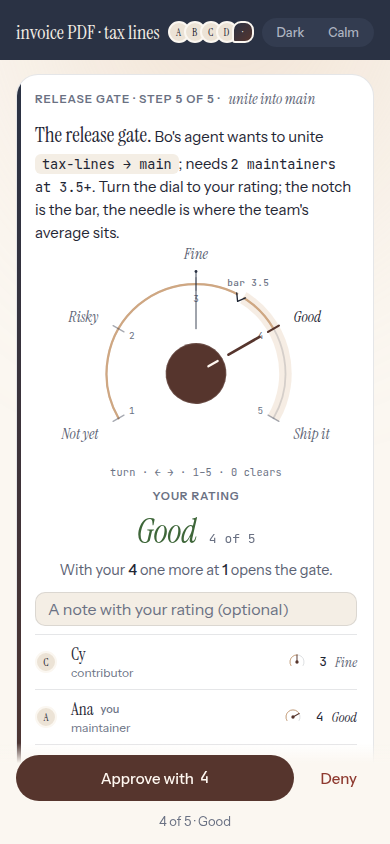
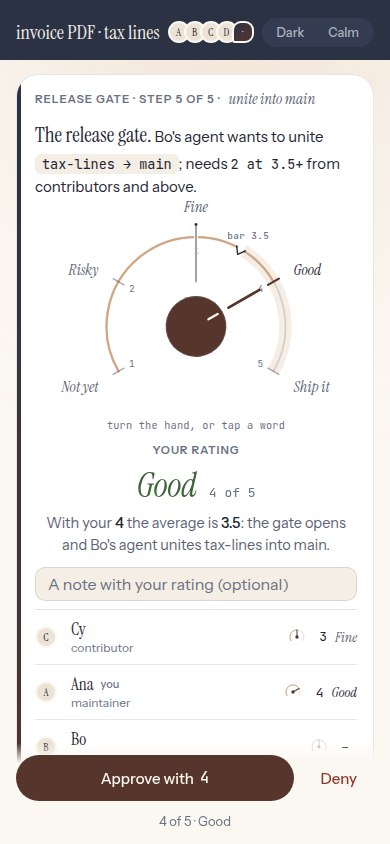
design: Henosis explorations, signature batch 13
The approval dial, revised.

Claude-Session: https://claude.ai/code/session_01YPALfxci6V6KSAnMNM9o8c

Changed region(s): [[0.0923, 0.1848, 0.9231, 0.8934], [0.1538, 0.4929, 0.2462, 0.5237], [0.3692, 0.4929, 0.4, 0.5237]]

diff --git a/design/henosis/explorations/sig-approval-dial/index.html b/design/henosis/explorations/sig-approval-dial/index.html
@@ -135,7 +135,7 @@ kbd { font: 500 11px/16px var(--mono); padding: 1px 6px; border-radius: 6px; bor
 .agent .doing { font-size: 13px; color: var(--rail-muted); line-height: 1.4; }
 .agent .doing i { font-family: var(--serif); font-style: italic; color: var(--apricot); }
 .agent .foot { display: flex; align-items: center; gap: 8px; font-size: 12px; color: var(--rail-muted); }
-.pill { display: inline-flex; align-items: center; gap: 5px; height: 22px; padding: 0 9px; border-radius: var(--radius-full); font-size: 11.5px; font-weight: 600; letter-spacing: .02em; background: var(--surface-3); color: var(--ink-2); }
+.pill { display: inline-flex; align-items: center; gap: 5px; height: 22px; padding: 0 9px; border-radius: var(--radius-full); font: 600 11.5px/1 var(--font); letter-spacing: .02em; background: var(--surface-3); color: var(--ink-2); }
 .pill.team { background: var(--pill-team-bg); color: var(--pill-team-fg); }
 .pill.solo { background: transparent; border: 1px solid var(--rail-line); color: var(--rail-muted); }
 .pill.gate { background: var(--blues); color: var(--apricot); }
@@ -158,7 +158,7 @@ kbd { font: 500 11px/16px var(--mono); padding: 1px 6px; border-radius: 6px; bor
 .seg button { border: 0; background: transparent; font: 500 12.5px var(--font); color: var(--ink-2); padding: 4px 12px; border-radius: var(--radius-full); cursor: pointer; transition: background var(--t) var(--ease-move), color var(--t) var(--ease-move); }
 .seg .on { background: var(--surface); color: var(--ink); box-shadow: var(--shadow-soft); }
 .scroll { flex: 1; overflow: auto; }
-.column { width: min(var(--col), 100%); margin: 0 auto; padding: 18px 24px 40px; display: flex; flex-direction: column; gap: 26px; }
+.column { width: min(var(--col), 100%); margin: 0 auto; padding: 18px 24px 28px; display: flex; flex-direction: column; gap: 26px; }
 .divider { display: flex; align-items: center; gap: 12px; color: var(--ink-3); font-size: 12px; }
 .divider::before, .divider::after { content: ""; flex: 1; height: 1px; background: var(--line); }
 
@@ -185,24 +185,26 @@ kbd { font: 500 11px/16px var(--mono); padding: 1px 6px; border-radius: 6px; bor
 .notice .ask .rule { font-family: var(--mono); font-size: 13.5px; }
 
 /* the dial and its sentence side by side; the ballots run under both */
-.gate { display: grid; grid-template-columns: 372px minmax(0, 1fr); gap: 10px 26px; align-items: start; margin-top: 2px; }
-.gate .say { padding-top: 26px; display: flex; flex-direction: column; gap: 14px; min-width: 0; }
-.gate .say .you { font: 600 11.5px/16px var(--font); letter-spacing: .08em; text-transform: uppercase; color: var(--ink-3); }
-.gate .say .word { font-family: var(--serif); font-style: italic; font-size: 38px; line-height: 1.05; letter-spacing: -.01em; color: var(--ink); display: flex; align-items: baseline; gap: 12px; flex-wrap: wrap; }
-.gate .say .word .n { font: 400 13px/16px var(--mono); color: var(--ink-3); font-style: normal; letter-spacing: 0; }
-.gate .say .word.low { color: var(--danger-ink); } .gate .say .word.risky { color: var(--warn-ink); } .gate .say .word.high { color: var(--ok-ink); }
-.gate .say .word.rest { color: var(--ink-3); }
-.gate .say .means { font-size: 14.5px; line-height: 1.5; color: var(--ink-2); max-width: 38ch; }
-.gate .say .means b { font-weight: 500; color: var(--ink); }
-.gate .say .nudge { display: none; font-size: 13.5px; color: var(--warn-ink); }
-.gate .say.lowpick .nudge { display: block; }
-.gate .say .note { width: 100%; max-width: 340px; min-height: 34px; padding: 6px 12px; border-radius: 10px; border: 1px solid var(--line); background: var(--surface-2); color: var(--ink); font: 400 13.5px var(--font); }
-.gate .say .note::placeholder { color: var(--ink-3); }
+.gatebody { display: grid; grid-template-columns: 340px minmax(0, 1fr); gap: 10px 26px; align-items: start; margin-top: 2px; }
+.gatebody .say { padding-top: 26px; display: flex; flex-direction: column; gap: 14px; min-width: 0; }
+.gatebody .say .you { font: 600 11.5px/16px var(--font); letter-spacing: .08em; text-transform: uppercase; color: var(--ink-3); }
+.gatebody .say .word { font-family: var(--serif); font-style: italic; font-size: 38px; line-height: 1.05; letter-spacing: -.01em; color: var(--ink); display: flex; align-items: baseline; gap: 12px; flex-wrap: wrap; }
+.gatebody .say .word .n { font: 400 13px/16px var(--mono); color: var(--ink-3); font-style: normal; letter-spacing: 0; }
+.gatebody .say .word.low { color: var(--danger-ink); } .gatebody .say .word.risky { color: var(--warn-ink); } .gatebody .say .word.high { color: var(--ok-ink); }
+.gatebody .say .word.rest { color: var(--ink-3); }
+.gatebody .say .means { font-size: 14.5px; line-height: 1.5; color: var(--ink-2); max-width: 38ch; }
+.gatebody .say .means b { font-weight: 500; color: var(--ink); }
+.gatebody .say .nudge { display: none; font-size: 13.5px; color: var(--warn-ink); }
+.gatebody .say.lowpick .nudge { display: block; }
+.gatebody .say .note { width: 100%; max-width: 340px; min-height: 34px; padding: 6px 12px; border-radius: 10px; border: 1px solid var(--line); background: var(--surface-2); color: var(--ink); font: 400 13.5px var(--font); }
+.gatebody .say .note::placeholder { color: var(--ink-3); }
 
 /* ---- the dial itself ---------------------------------------------------------------------------- */
-.dial { position: relative; width: 372px; max-width: 100%; touch-action: none; user-select: none; -webkit-user-select: none; border-radius: 18px; outline-offset: 4px; cursor: grab; }
+.dial { position: relative; width: 340px; max-width: 100%; touch-action: none; user-select: none; -webkit-user-select: none; border-radius: 18px; outline-offset: 4px; cursor: grab; }
 .dial.dragging { cursor: grabbing; }
 .dial svg { display: block; width: 100%; height: auto; overflow: visible; }
+/* only the stops and the hand answer the pointer; the rim, the notch and the needle are drawing */
+.dial .zone, .dial .rim, .dial .fill, .dial .pre, .dial .cut, .dial .notch, .dial .bar-label, .dial .needle, .dial .needle-halo, .dial .needle-cap, .dial .bottom { pointer-events: none; }
 .dial .rim { fill: none; stroke: var(--dial-rim); stroke-width: 2; stroke-linecap: round; }
 .dial .zone { fill: none; stroke: var(--dial-zone); stroke-width: 14; }
 .dial .fill, .dial .pre { fill: none; stroke-width: 2.5; stroke-linecap: round; stroke-dasharray: var(--len, 0) 240; }
@@ -222,6 +224,8 @@ kbd { font: 500 11px/16px var(--mono); padding: 1px 6px; border-radius: 6px; bor
 .dial .stop:hover .label, .dial .stop.pre .label { fill: var(--ink); }
 .dial .stop.cur .label { fill: var(--ink); }
 .dial .stop.cur .num { fill: var(--ink-2); }
+.dial .needle-halo { stroke: var(--surface); stroke-width: 4; stroke-linecap: round; transform-box: view-box; transform-origin: 180px 128px; transform: rotate(var(--avg-deg, 0deg)); transition: transform var(--t-slow) var(--ease-mark), opacity var(--t) ease; }
+.dial.noavg .needle-halo { opacity: 0; }
 .dial .needle { stroke: var(--dial-needle); stroke-width: 1; stroke-linecap: round; transform-box: view-box; transform-origin: 180px 128px; transform: rotate(var(--avg-deg, 0deg)); transition: transform var(--t-slow) var(--ease-mark), opacity var(--t) ease; }
 .dial .needle-cap { fill: var(--dial-needle); transform-box: view-box; transform-origin: 180px 128px; transform: rotate(var(--avg-deg, 0deg)); transition: transform var(--t-slow) var(--ease-mark); }
 .dial.noavg .needle, .dial.noavg .needle-cap { opacity: 0; }
@@ -240,6 +244,8 @@ kbd { font: 500 11px/16px var(--mono); padding: 1px 6px; border-radius: 6px; bor
 .dial.locked .slot, .dial.locked .pointer { opacity: 0; }
 .dial.locked .stop { cursor: default; }
 .dial .bottom { font: 400 11.5px var(--mono); fill: var(--ink-3); letter-spacing: .02em; }
+.dial .touch-line { display: none; }
+@media (hover: none) and (pointer: coarse) { .dial .keys-line { display: none; } .dial .touch-line { display: block; } }
 
 /* ---- the ballots ------------------------------------------------------------------------------- */
 .ballots { grid-column: 1 / -1; display: flex; flex-direction: column; border-top: 1px solid var(--line); margin-top: 2px; }
@@ -323,7 +329,7 @@ kbd { font: 500 11px/16px var(--mono); padding: 1px 6px; border-radius: 6px; bor
 @media (prefers-reduced-motion: no-preference) {
   :root:not([data-motion="calm"]) { --motion: 1; }
   :root:not([data-motion="calm"]) .dial .stop.click .tick { animation: detent 180ms var(--ease-arrive) both; }
-  :root:not([data-motion="calm"]) .gate .say .word.in { animation: word-in var(--t-slow) var(--ease-arrive) both; }
+  :root:not([data-motion="calm"]) .gatebody .say .word.in { animation: word-in var(--t-slow) var(--ease-arrive) both; }
   :root:not([data-motion="calm"]) .ballot .said .wait.live::before { animation: dot-live 1.8s var(--ease-move) infinite; }
   :root:not([data-motion="calm"]) .agent .head .dot.running { animation: dot-live 1.8s var(--ease-move) infinite; }
   :root:not([data-motion="calm"]) .dial.locked .check { animation: draw .45s var(--ease-move) .05s both; }
@@ -345,13 +351,14 @@ kbd { font: 500 11px/16px var(--mono); padding: 1px 6px; border-radius: 6px; bor
   .msg { display: none; } .divider { display: none; }
   .notice { padding: 16px 16px 18px 18px; gap: 12px; }
   .notice .ask { font-size: 15px; }
-  .gate { grid-template-columns: 1fr; gap: 6px; }
+  .gatebody { grid-template-columns: 1fr; gap: 6px; }
   .dial { width: 100%; margin: 0 auto; }
   .dial .stop .label { font-size: 17px; }
-  .gate .say { padding-top: 0; gap: 10px; align-items: center; text-align: center; }
-  .gate .say .word { justify-content: center; font-size: 34px; }
-  .gate .say .means { max-width: none; }
-  .gate .say .note { max-width: none; font-size: 16px; }
+  .dial .keys-line { display: none; } .dial .touch-line { display: block; }
+  .gatebody .say { padding-top: 0; gap: 10px; align-items: center; text-align: center; }
+  .gatebody .say .word { justify-content: center; font-size: 34px; }
+  .gatebody .say .means { max-width: none; }
+  .gatebody .say .note { max-width: none; font-size: 16px; }
   .ballot { grid-template-columns: 24px minmax(0, 1fr) auto; }
   .ballot .said { display: none; }
   .ballot .who .name { font-size: 17px; }
@@ -416,22 +423,20 @@ kbd { font: 500 11px/16px var(--mono); padding: 1px 6px; border-radius: 6px; bor
           <span class="gutter"><span class="avatar agent" aria-hidden="true">·</span></span>
           <div class="meta"><span class="who">Bo's agent</span><span>to the team</span><span class="mono faint" style="font-size:12px">14:21</span></div>
           <div class="text">
-            <p>The tax lines render on the invoice PDF now: VAT per line, a proration row when a plan changes mid-cycle, totals that foot to the cent. The fixture for September reconciles with Finance's export.</p>
-            <p>Ready to unite <span class="mono">tax-lines</span> into <span class="mono">main</span>.</p>
+            <p>The tax lines render on the invoice PDF: VAT per line, a proration row when a plan changes mid-cycle, totals that foot to the cent. Ready to unite <span class="mono">tax-lines</span> into <span class="mono">main</span>.</p>
           </div>
           <div class="steps">
             <div class="step">pnpm test · 42 passed<span class="t">1.9s</span></div>
             <div class="step">rendered invoice-2026-09.pdf · 2 pages<span class="t">0.4s</span></div>
-            <div class="step">diff · +184 −31 · 6 files<span class="t"></span></div>
           </div>
         </article>
 
         <!-- -------------------------------------------------------------- the gate -->
         <section class="notice" id="notice" aria-label="Release gate">
           <div class="kind">Release gate · step 5 of 5 · <span class="serif i">unite into main</span></div>
-          <div class="ask"><span class="lead">The release gate.</span> Bo's agent wants to unite <span class="command">tax-lines → main</span>; needs <span class="rule">2 maintainers at 3.5+</span>. Turn the dial to your rating; the notch is the bar, the needle is where the team's average sits.</div>
+          <div class="ask"><span class="lead">The release gate.</span> Bo's agent wants to unite <span class="command">tax-lines → main</span>; needs <span class="rule">2 at 3.5+</span> from contributors and above.</div>
 
-          <div class="gate">
+          <div class="gatebody">
             <!-- the dial: one slider, five stops, a detent at each -->
             <div class="dial rest" id="dial" role="slider" tabindex="0" aria-label="Your rating" aria-valuemin="1" aria-valuemax="5" aria-valuenow="4" aria-valuetext="No pick yet; 4 if you leave it" aria-describedby="means" style="--deg: 60deg; --len: 180; --plen: 0; --avg-deg: 0deg;">
               <svg viewBox="0 0 360 250" aria-hidden="true" id="face">
@@ -448,6 +453,7 @@ kbd { font: 500 11px/16px var(--mono); padding: 1px 6px; border-radius: 6px; bor
                 <!-- stops -->
                 <g id="stops"></g>
                 <!-- the team's average: a thin needle -->
+                <line class="needle-halo" x1="180" y1="78" x2="180" y2="14"/>
                 <line class="needle" id="needle" x1="180" y1="78" x2="180" y2="14"/>
                 <circle class="needle-cap" cx="180" cy="14" r="1.6"/>
                 <!-- the hand: the knob and its pointer, rotated to the pick -->
@@ -458,7 +464,8 @@ kbd { font: 500 11px/16px var(--mono); padding: 1px 6px; border-radius: 6px; bor
                   <line class="slot" x1="180" y1="112" x2="180" y2="100"/>
                   <path class="check" d="M170 129l7 7 13-14" />
                 </g>
-                <text class="bottom" x="180" y="243" text-anchor="middle" id="bottomLine">turn · ← → · 1–5 · 0 clears</text>
+                <text class="bottom keys-line" x="180" y="243" text-anchor="middle">turn · ← → · 1–5 · 0 clears</text>
+                <text class="bottom touch-line" x="180" y="243" text-anchor="middle">turn the hand, or tap a word</text>
               </svg>
             </div>
 
@@ -466,7 +473,7 @@ kbd { font: 500 11px/16px var(--mono); padding: 1px 6px; border-radius: 6px; bor
             <div class="say" id="say">
               <div class="you">Your rating</div>
               <div class="word rest" id="word"><span id="wordText">4 if you leave it</span><span class="n" id="wordN"></span></div>
-              <div class="means" id="means">The gate needs two maintainers at 3.5 or better. Cy's 3 is in; yours is the second and decides the average.</div>
+              <div class="means" id="means">Two ratings at 3.5 or better open the gate. Cy's 3 is in; yours is the second and decides the average.</div>
               <div class="nudge" id="nudge">Say what worries you. A note travels with a low rating.</div>
               <input class="note" id="note" type="text" aria-label="A note with your rating (optional)" placeholder="A note with your rating (optional)">
             </div>
@@ -503,8 +510,8 @@ kbd { font: 500 11px/16px var(--mono); padding: 1px 6px; border-radius: 6px; bor
   <aside class="drawer" aria-label="Details">
     <section>
       <h3>The gate</h3>
-      <div class="row"><span>Rule</span><span class="k">2 maintainers · 3.5+</span></div>
-      <div class="row"><span>Raters</span><span class="k">Ana, Bo</span></div>
+      <div class="row"><span>Rule</span><span class="k">2 at 3.5+ · contributor and up</span></div>
+      <div class="row"><span>Raters</span><span class="k">Cy, Ana, Bo</span></div>
       <div class="row"><span>Unites</span><span class="k">tax-lines → main</span></div>
       <div class="row"><span>Opened</span><span class="k">14:21 · turn 14</span></div>
     </section>
@@ -547,19 +554,17 @@ kbd { font: 500 11px/16px var(--mono); padding: 1px 6px; border-radius: 6px; bor
   const WORDS = ["Not yet", "Risky", "Fine", "Good", "Ship it"];
   const LEVEL = (n) => n <= 1 ? "low" : n === 2 ? "risky" : n === 3 ? "mid" : "high";
   const DEFAULT_RATING = 4;                       // the product's default (SYSTEM §10)
-  const RULE = { min: 2, bar: 3.5 };              // "2 maintainers at 3.5+"
+  const RULE = { min: 2, bar: 3.5 };              // "2 at 3.5+ from contributors and above" (the app's ratings rule)
   const ballots = [
-    { id: "cy",  name: "Cy",  role: "contributor", vote: "approve", rating: 3,    note: "Proration rounding still worries me on the last line.", counts: false },
+    { id: "cy",  name: "Cy",  role: "contributor", vote: "approve", rating: 3,    note: "Proration rounding still worries me on the last line.", counts: true },
     { id: "ana", name: "Ana", role: "maintainer",  vote: null,      rating: null, note: "", you: true, counts: true },
     { id: "bo",  name: "Bo",  role: "maintainer",  vote: null,      rating: null, note: "", counts: true },
     { id: "dee", name: "Dee", role: "observer",    vote: "approve", rating: 4,    note: "Looks right to me.", counts: false, voice: true },
   ];
-  // Cy is a contributor: under this rule his rating is a voice; the raters are the maintainers.
-  // The ask says "Cy's 3 is in" because the team can see it; the tally counts maintainers only.
-  // To keep the needle honest the average is over every approve rating in (the app's Tally sums
-  // the ballots); the count is over the rule's rank.
-  const inRatings = () => ballots.filter(b => b.vote === "approve" && b.rating !== null && !b.voice).map(b => b.rating);
-  const countIn   = () => ballots.filter(b => b.vote === "approve" && b.rating !== null && b.counts).length;
+  // The raters are everyone at the rule's rank or above (the app's ratingProgress): Cy, Ana, Bo.
+  // Dee is an observer: her approve is a voice, shown but never summed.
+  const inRatings = () => ballots.filter(b => b.vote === "approve" && b.rating !== null && b.counts).map(b => b.rating);
+  const countIn   = () => inRatings().length;
   const avg = (arr) => arr.length ? arr.reduce((n, v) => n + v, 0) / arr.length : 0;
   const fmt = (n) => String(Math.round(n * 10) / 10);
 
@@ -615,18 +620,20 @@ kbd { font: 500 11px/16px var(--mono); padding: 1px 6px; border-radius: 6px; bor
   const you = ballots.find(b => b.you);
 
   function consequence(n) {
-    // what the gate does once your n is in (Bo's rating would be the third voice, past the rule's two)
-    const others = inRatings();
-    const all = [...others, n];
-    const a = avg(all);
-    const count = countIn() + 1;
+    // what the gate does once your n is in: the app's Tally arithmetic (the lowest next rating that
+    // still clears the bar), written as a sentence
+    const all = [...inRatings(), n];
+    const sum = all.reduce((s, v) => s + v, 0), a = sum / all.length, count = all.length;
     if (count >= RULE.min) {
-      return a >= RULE.bar
-        ? `With your <b>${n}</b> the average is <b>${fmt(a)}</b> and the gate opens: Bo's agent unites tax-lines into main.`
-        : `With your <b>${n}</b> the average is <b>${fmt(a)}</b>, under the bar. The release waits for a revision or for Bo.`;
+      if (a >= RULE.bar) return `With your <b>${n}</b> the average is <b>${fmt(a)}</b>: the gate opens and Bo's agent unites tax-lines into main.`;
+      const lift = Math.ceil(RULE.bar * (count + 1) - sum);
+      return lift > 5
+        ? `With your <b>${n}</b> the average is <b>${fmt(a)}</b>, under the bar, and no third rating can lift it. The release waits for a revision.`
+        : `With your <b>${n}</b> the average is <b>${fmt(a)}</b>, under the bar. Bo at <b>${lift}</b> would lift it.`;
     }
-    const lift = Math.ceil(RULE.bar * (count + 1) - all.reduce((s, v) => s + v, 0));
-    return lift > 5 ? `With your <b>${n}</b> no second rating can lift the average to ${fmt(RULE.bar)}.` : `With your <b>${n}</b> one more at <b>${Math.max(1, lift)}</b> opens the gate.`;
+    const need = RULE.min - count;
+    const lift = Math.ceil((RULE.bar * (count + need) - sum) / need);
+    return lift > 5 ? `With your <b>${n}</b> no further rating can lift the average to ${fmt(RULE.bar)}.` : `With your <b>${n}</b> one more at <b>${Math.max(1, lift)}</b> opens the gate.`;
   }
 
   function render(fromKeys) {
@@ -676,8 +683,8 @@ kbd { font: 500 11px/16px var(--mono); padding: 1px 6px; border-radius: 6px; bor
     const low = count > 0 && a < RULE.bar;
     const segs = Array.from({ length: RULE.min }, (_, i) => `<i class="${i < count ? "on" : i === count ? "next" : ""}"></i>`).join("");
     let verdict;
-    if (locked) verdict = a >= RULE.bar && count >= RULE.min ? "The gate opens." : count < RULE.min ? "The gate waits for Bo." : "Under the bar: the release waits.";
-    else verdict = count === 0 ? "The gate waits for you and Bo." : "One more rating decides.";
+    if (locked) verdict = a >= RULE.bar && count >= RULE.min ? "The gate opens." : count < RULE.min ? "The gate waits for Bo." : "Under the bar: the release waits for Bo or a revision.";
+    else verdict = count === 0 ? "The gate waits for you and Bo." : count < RULE.min ? "Your rating decides." : "Bo's rating can still lift it.";
     tally.className = "tally" + (low && locked ? " low" : "");
     tally.innerHTML = `<span class="segs" aria-hidden="true">${segs}</span><span><b>${count}</b> of ${RULE.min} raters</span><span>${rs.length ? `<b>${fmt(a)}</b> average` : "no rating yet"}</span><span class="verdict">${verdict}</span>`;
     // the needle
@@ -804,6 +811,8 @@ kbd { font: 500 11px/16px var(--mono); padding: 1px 6px; border-radius: 6px; bor
   const p = Number(q.get("pick")); if (p >= 1 && p <= 5) { pick = p; shown = p; }
   render(false);
   if (q.has("locked")) approve.click();
+  // the stream opens at its newest: the gate at the top of the view, the last tool line above it
+  const scroll = document.querySelector(".scroll"); scroll.scrollTop = Math.max(0, notice.offsetTop - scroll.offsetTop - 20);
 })();
 </script>
 </body>
